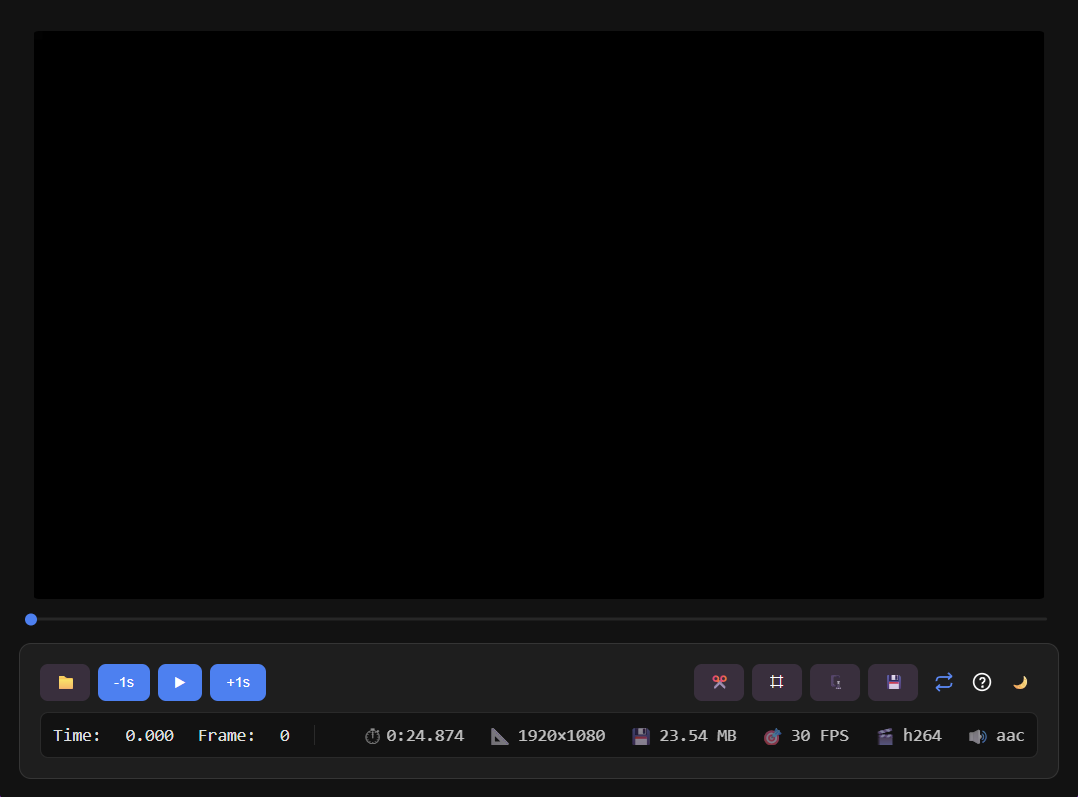
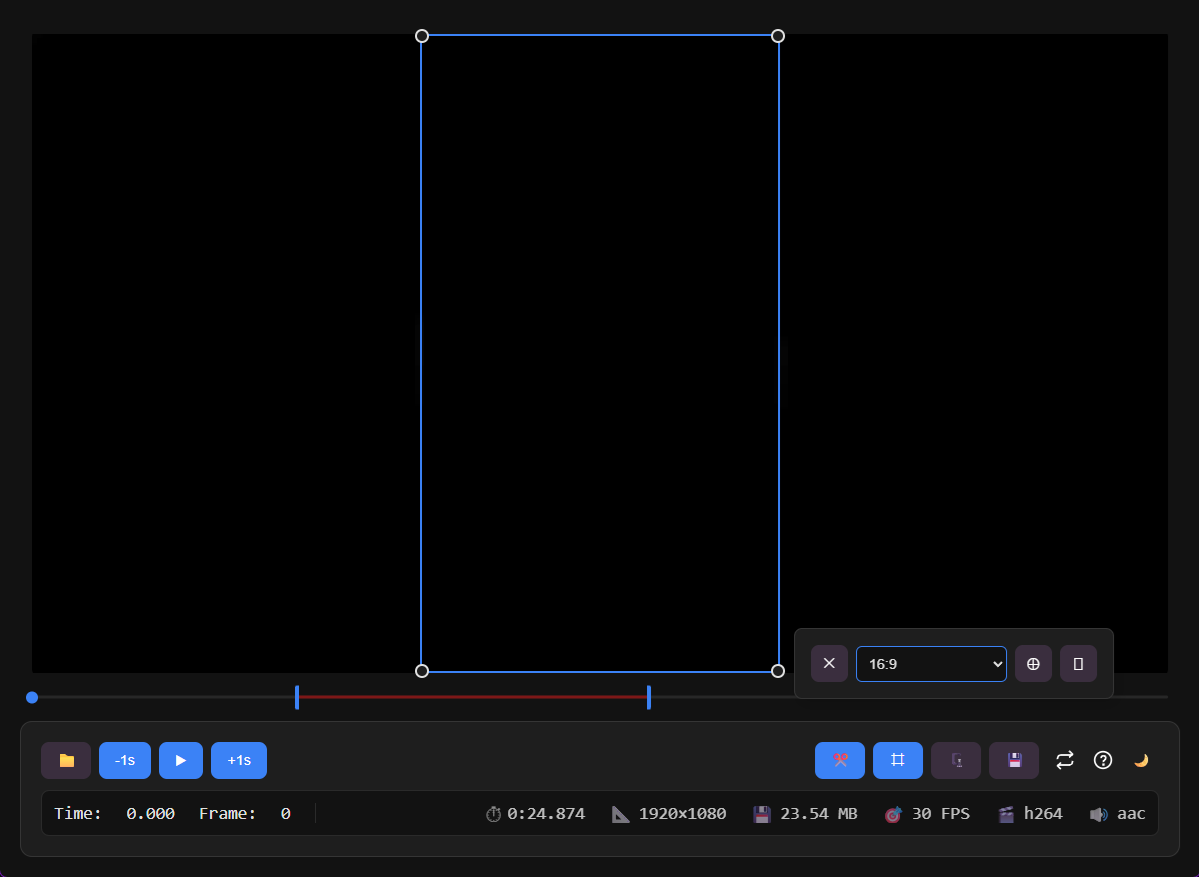
readme update added features and improved example image

diff --git a/README.md b/README.md
@@ -3,17 +3,34 @@
 A simplistic video **viewer**, **editor**, and **downloader**.  
 View basic Metadata or additional stream information in the DevTools' (F12) Console. 
 
-## Current Features:
+## Current Features:  
+### Video
 - Trimming
-- Cropping
-- Compressing
+- Cropping _(presets & custom)_
+- Compressing _(Video/Audio/Quality options)_
+### Audio (Upcoming)
+- Track merge/volume/balance
+- Extract
+### App
+- Auto updates
+  - App
+  - Yt-dlp
+  - FFmpeg
+- Loop
+- YTSearch
+- Keybind shortcuts
+- Tab navigation friendly
 
 ## TO-DO:
 - HLS (video streams)
-- Audio extraction
 - FFmpeg Hardware acceleration
+- Dedicated binary CDN
 
 ## UI Examples:
 Window | Tool Tips (H)
 :-----------------------:|:-----------------------:
 ![](src/assets/examples/example-main.png) | ![](src/assets/examples/example-tips.png)
+
+# Acknowledgements
+- [FFmpeg](https://github.com/FFmpeg/FFmpeg)
+- [yt-dlp](https://github.com/yt-dlp/yt-dlp)
